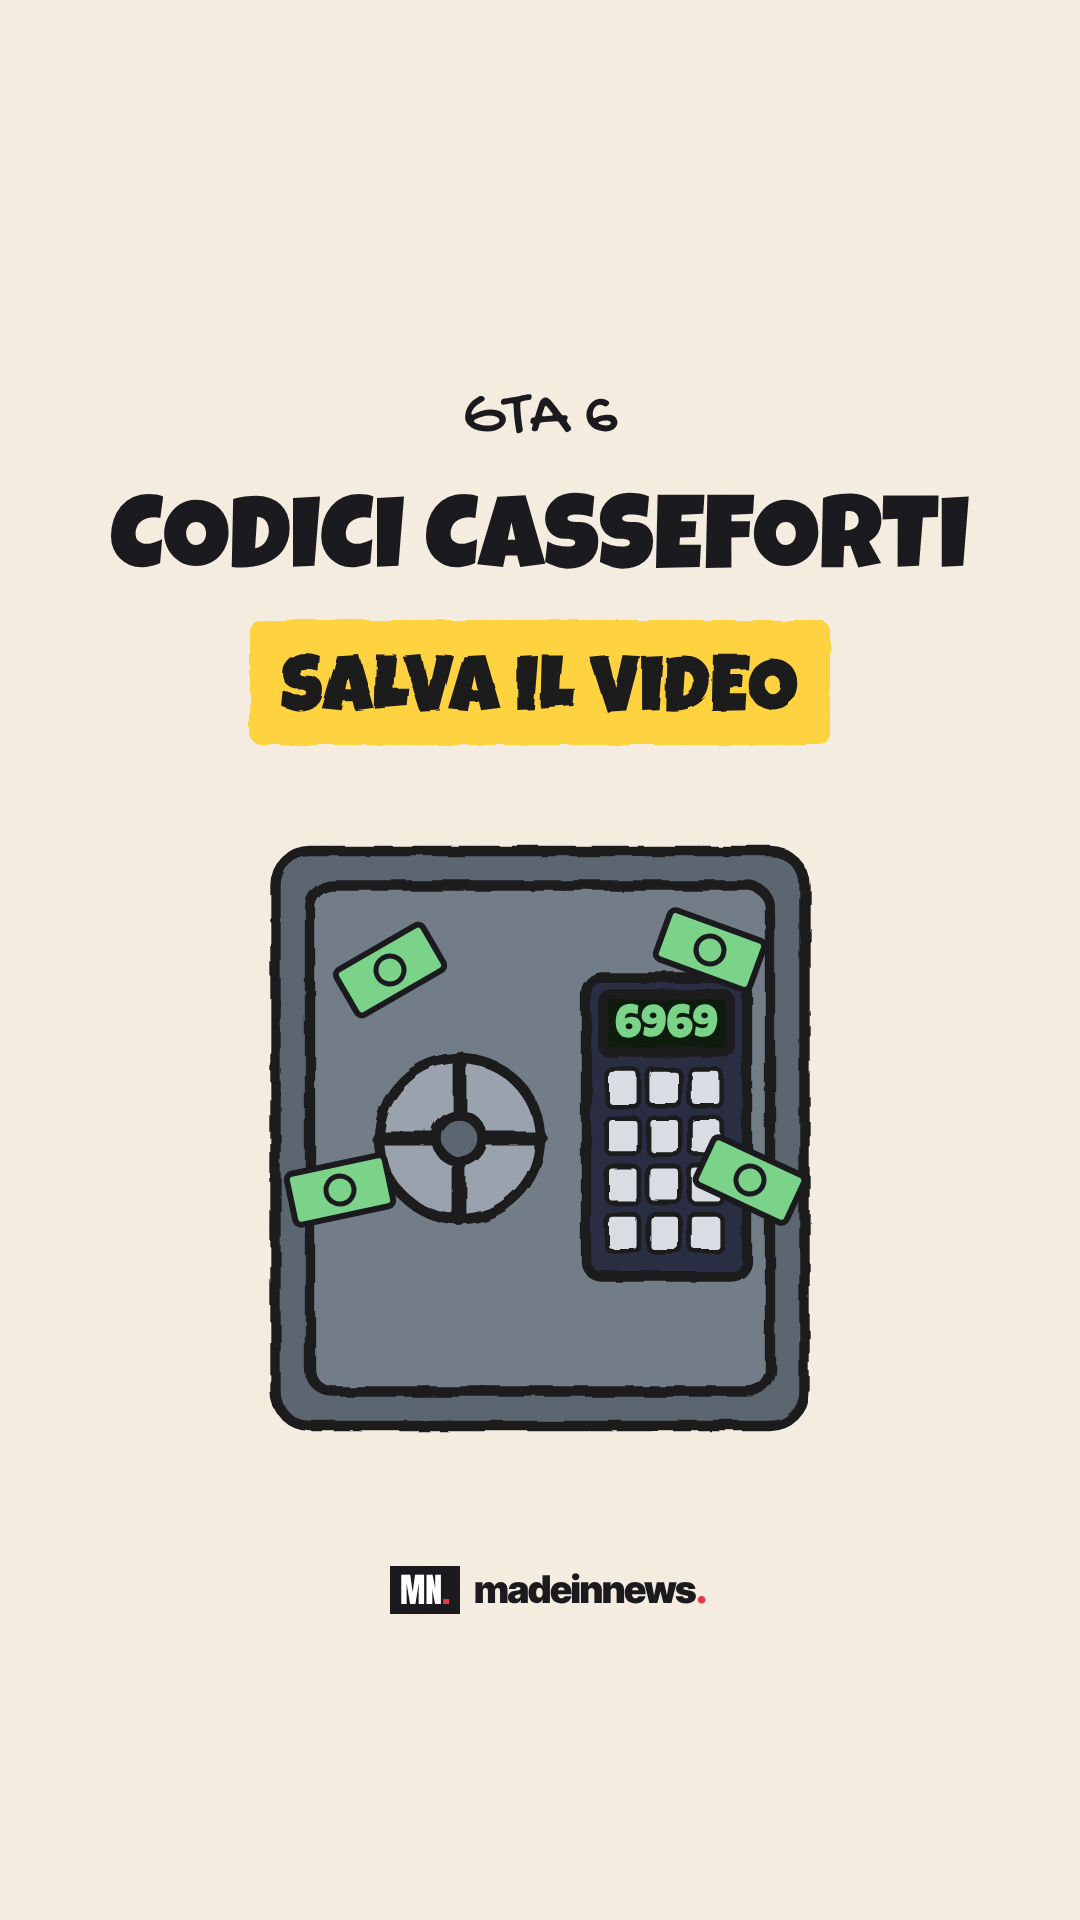
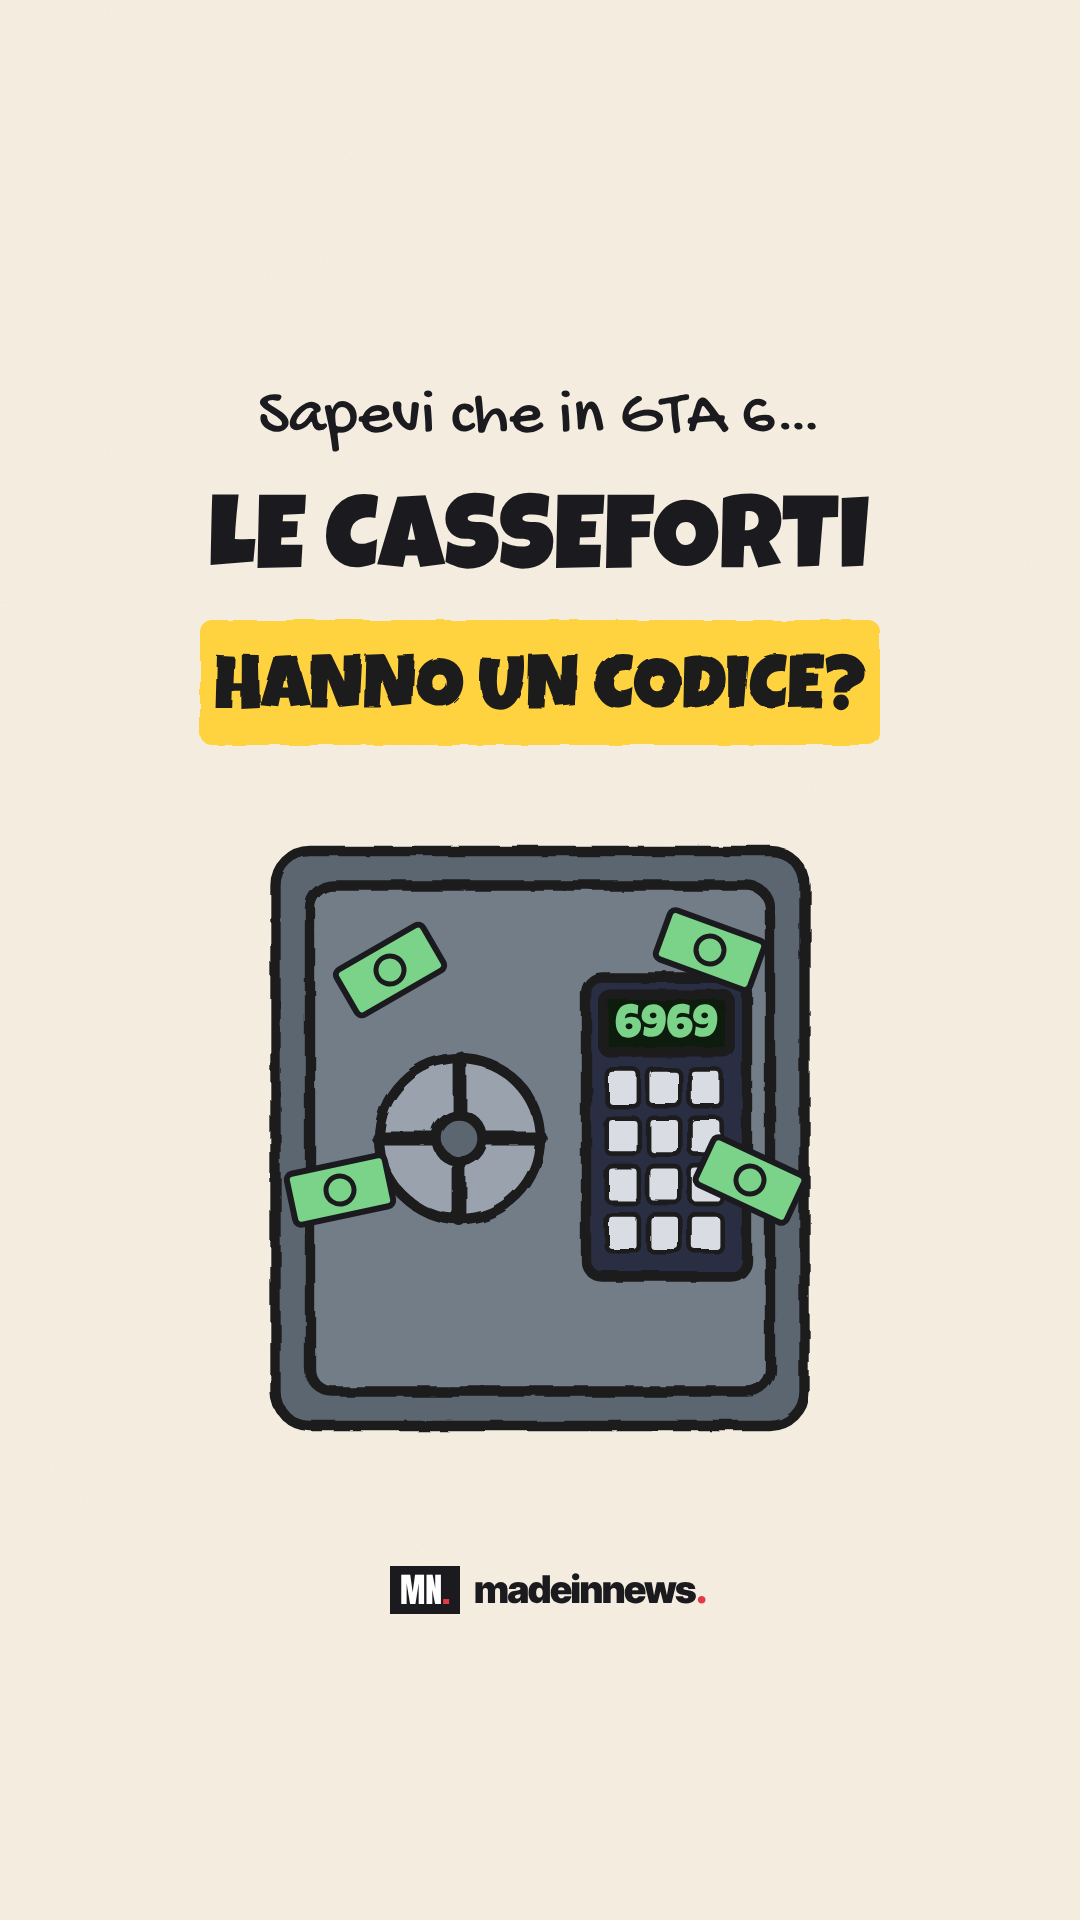
Copertina codici: Sapevi che; regola copertine
Claude-Session: https://claude.ai/code/session_01RiLp1FWEa9A5i6rpLf5r8e

Changed region(s): [[0.0917, 0.1875, 0.9167, 0.4062]]

diff --git a/engine/cover_codici.js b/engine/cover_codici.js
@@ -96,9 +96,9 @@ const wallMap=(x,y)=>`<g transform="translate(${x},${y})" filter="url(#wob)" ${W
 const postcards=(x,y)=>`<g transform="translate(${x},${y})">${[[-180,-60,-8],[0,-80,5],[180,-50,-4],[-90,110,6],[100,100,-6]].map(([a,b,r],k)=>`<g transform="translate(${a},${b}) rotate(${r})" filter="url(#wob)"><rect x="-90" y="-65" width="180" height="130" rx="8" fill="${['#ffd9a0','#a8c7e6','#c7e3c0','#e8b4b8','#f3e1a1'][k]}" stroke="${INK}" stroke-width="7"/><text x="0" y="22" text-anchor="middle" ${F('Luckiest Guy')} font-size="62" fill="#fff" stroke="${INK}" stroke-width="3" data-fade="@segni,0.3" style="opacity:0">${'44017'[k]}</text></g>`).join('')}</g>`;
 
 module.exports=defs+`<rect width="1080" height="1920" fill="#f6efe2"/><rect width="1080" height="1920" filter="url(#paper)"/>
-<text x="540" y="430" text-anchor="middle" ${F('Gochi Hand')} font-size="66" fill="${INK}">GTA 6</text>
-<g class="bx"><rect x="0" y="460" width="1080" height="140" fill="none"/><text x="540" y="580" text-anchor="middle" ${F('Luckiest Guy')} font-size="104" fill="${INK}">CODICI CASSEFORTI</text></g>
-<g filter="url(#wob)"><g class="bx"><rect x="250" y="620" width="580" height="125" rx="12" fill="${YEL}"/><text x="540" y="715" text-anchor="middle" ${F('Luckiest Guy')} font-size="80" fill="${INK}">SALVA IL VIDEO</text></g></g>
+<text x="540" y="430" text-anchor="middle" ${F('Gochi Hand')} font-size="66" fill="${INK}">Sapevi che in GTA 6…</text>
+<g class="bx"><rect x="0" y="460" width="1080" height="140" fill="none"/><text x="540" y="580" text-anchor="middle" ${F('Luckiest Guy')} font-size="104" fill="${INK}">LE CASSEFORTI</text></g>
+<g filter="url(#wob)"><g class="bx"><rect x="200" y="620" width="680" height="125" rx="12" fill="${YEL}"/><text x="540" y="715" text-anchor="middle" ${F('Luckiest Guy')} font-size="76" fill="${INK}">HANNO UN CODICE?</text></g></g>
 <g transform="translate(540,1150) scale(1.15)"><g filter="url(#wob)" ${W}><rect x="-230" y="-260" width="460" height="500" rx="30" fill="#5c6670"/><rect x="-200" y="-230" width="400" height="440" rx="20" fill="#727d88"/><circle cx="-70" cy="-10" r="70" fill="#9aa3ad"/><line x1="-70" y1="-80" x2="-70" y2="60" stroke-width="12"/><line x1="-140" y1="-10" x2="0" y2="-10" stroke-width="12"/><circle cx="-70" cy="-10" r="20" fill="#5c6670"/><rect x="40" y="-150" width="140" height="260" rx="14" fill="#2b2d42"/><rect x="55" y="-135" width="110" height="50" rx="6" fill="#0d1a10"/>${[0,1,2,3].map(r=>[0,1,2].map(c=>`<rect x="${58+c*36}" y="${-70+r*42}" width="28" height="32" rx="5" fill="#d9dde3" stroke-width="4"/>`).join('')).join('')}</g><text x="110" y="-98" text-anchor="middle" ${F('Luckiest Guy')} font-size="40" fill="#7bd389">6969</text></g>
 ${[[-150,-180,-30],[170,-200,20],[-200,40,-12],[210,30,25]].map(([a,b,r])=>`<g transform="translate(${540+a},${1150+b}) rotate(${r})"><rect x="-50" y="-26" width="100" height="52" rx="6" fill="#7bd389" stroke="${INK}" stroke-width="6"/><circle r="14" fill="none" stroke="${INK}" stroke-width="5"/></g>`).join('')}
 <g transform="translate(540,1590)"><rect x="-150" y="-24" width="70" height="48" fill="${INK}"/><text x="-115" y="14" text-anchor="middle" ${F('Anton')} font-size="34" fill="#fff">MN<tspan fill="${RED}">.</tspan></text><text x="-66" y="13" ${F('Inter Tight')} font-weight="900" font-size="38" fill="${INK}" letter-spacing="-1.5">madeinnews<tspan fill="${RED}">.</tspan></text></g>`;
